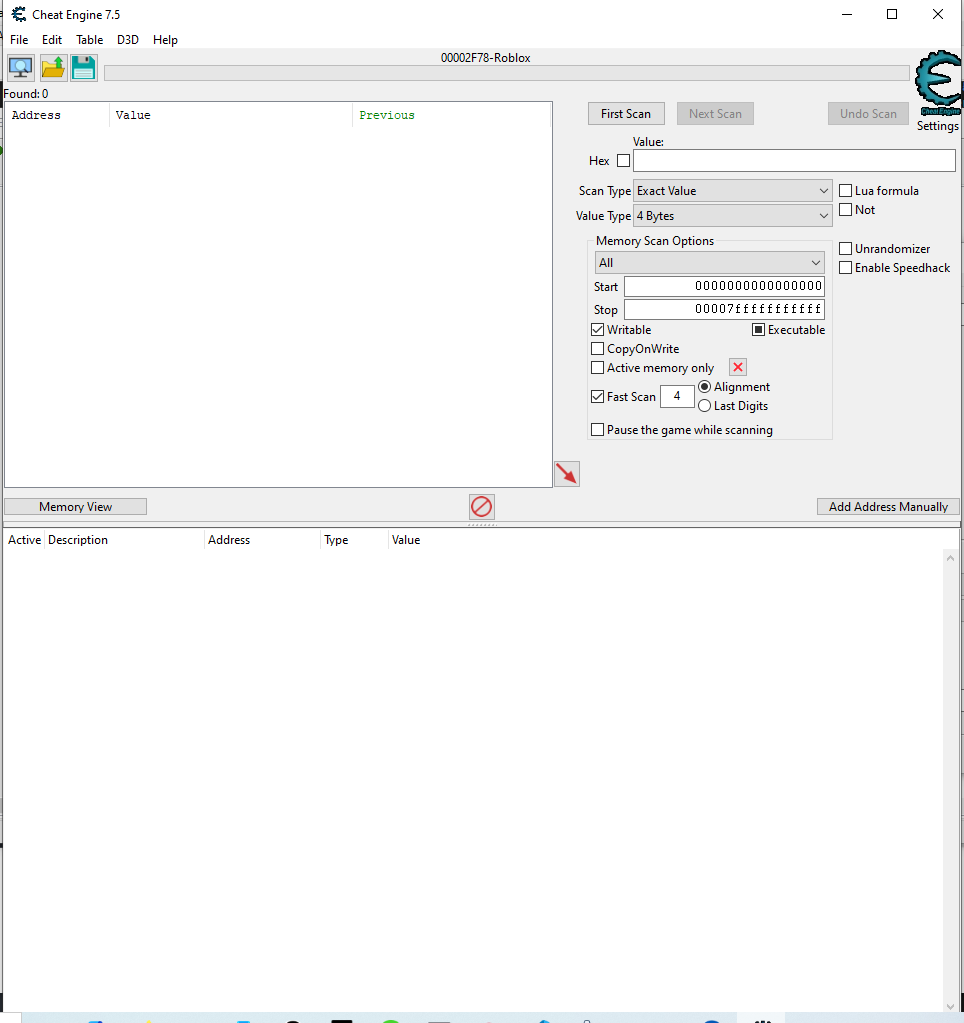
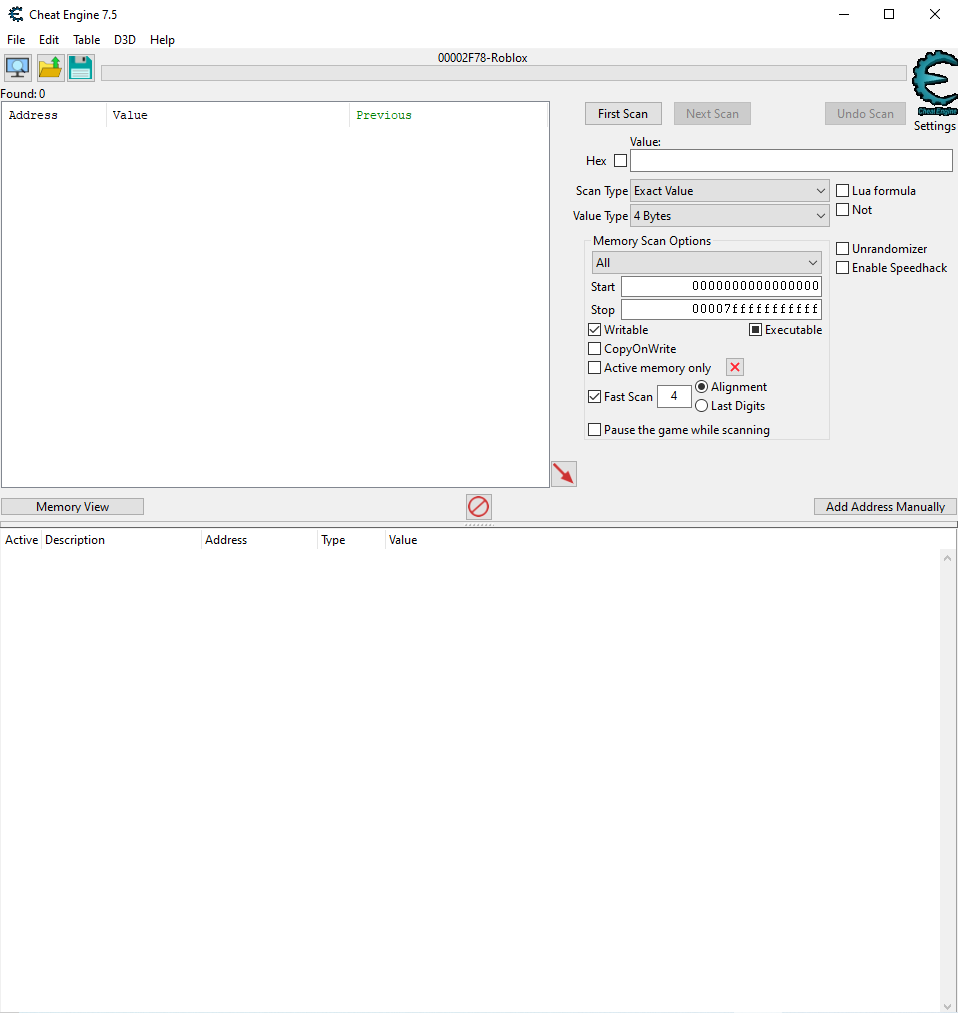
Tweak some week 10 info

diff --git a/_posts/2024-09-15-week10-cheat-engine.md b/_posts/2024-09-15-week10-cheat-engine.md
@@ -73,5 +73,5 @@ From here you have circumvented most anticheats for a short while, having preven
 Now we get no issue from Roblox:
 ![](/images/roblox-frontpage.PNG)
 
-And we can scan memory freely:
+And we can hook Roblox:
 ![](/images/roblox-cheatengine-hooked.PNG)
